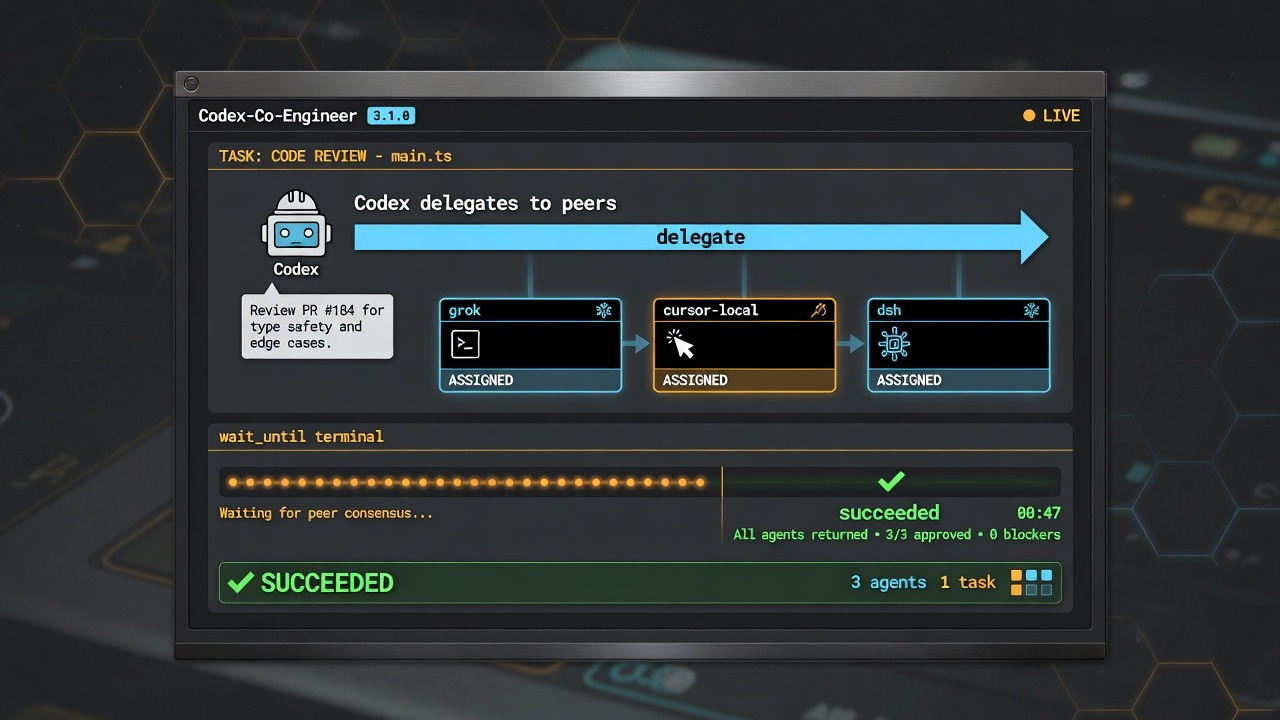
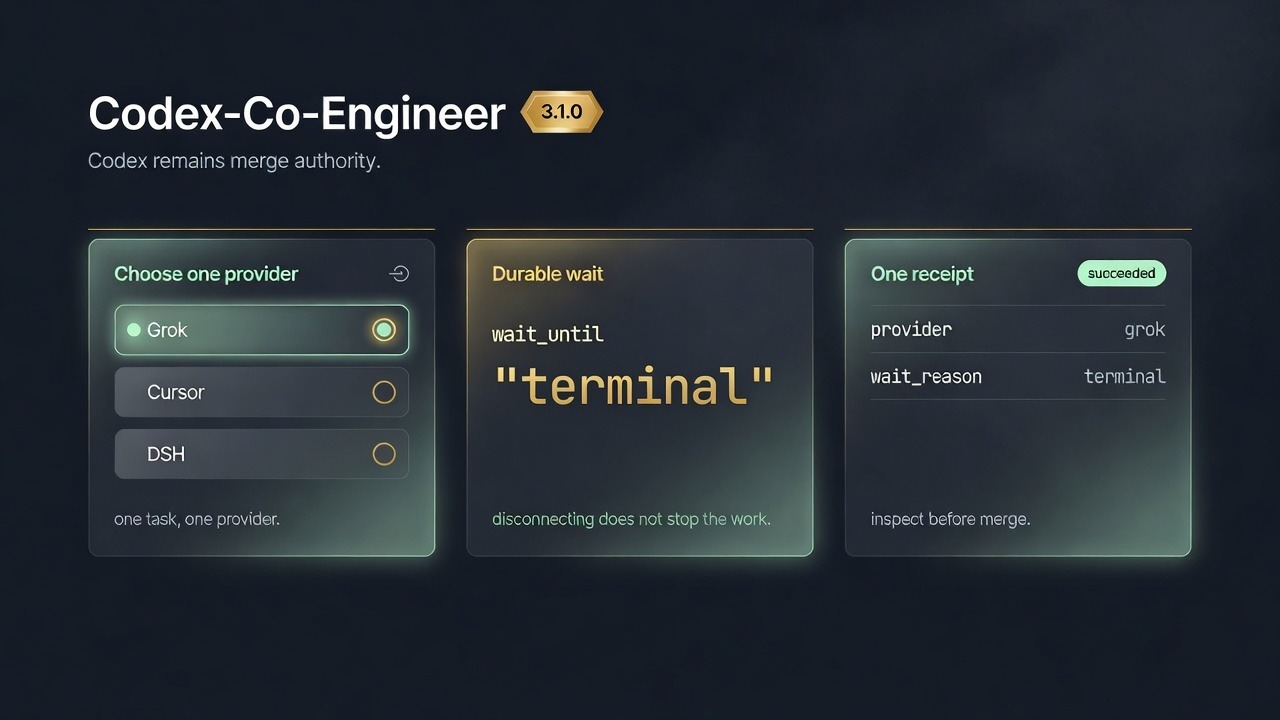
docs: correct 3.1.0 product shot to one-provider flow
Replace the Imagine hero that assigned Grok, Cursor, and DSH together
and claimed peer consensus. The new 1280x720 JPEG shows choosing one
provider, delegating one task, waiting until terminal, and inspecting
one receipt before merge. The SVG picker and README alt text now match
that exclusive-provider story.

diff --git a/README.md b/README.md
@@ -16,7 +16,7 @@ stable machine identifier is `codex-co-engineer`. In-repo release notes:
 
 ![Codex-Co-Engineer 3.1.0 product shot](docs/assets/codex-co-engineer-3.1.0.jpg)
 
-![Codex-Co-Engineer 3.1.0 delegates to Grok, Cursor, and DSH, then waits for a terminal receipt](docs/assets/codex-co-engineer-3.1.0.svg)
+![Codex-Co-Engineer 3.1.0: choose one provider, delegate one task, wait until terminal, then inspect the receipt](docs/assets/codex-co-engineer-3.1.0.svg)
 
 ## First 60 seconds
 
